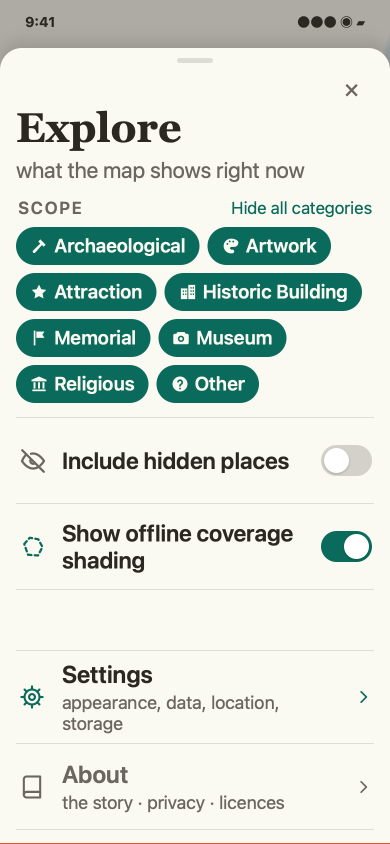
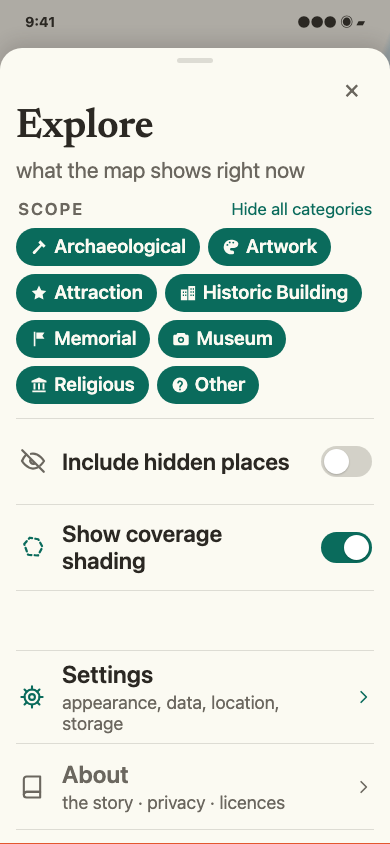
Align Explore coverage copy with frozen frame

diff --git a/ios/App/Tests/AppShellTests.swift b/ios/App/Tests/AppShellTests.swift
@@ -357,7 +357,7 @@ final class AppShellTests: XCTestCase {
         XCTAssertEqual(
             ExploreScopeControl.coverageShading.presentation,
             ExploreScopeControlPresentation(
-                title: "Show offline coverage shading",
+                title: "Show coverage shading",
                 icon: .coverageShading,
                 accessibilityIdentifier: "map.layers.coverage-shading"
             )

diff --git a/ios/App/Sources/Map/MapDoorShell.swift b/ios/App/Sources/Map/MapDoorShell.swift
@@ -74,7 +74,7 @@ enum ExploreScopeControl: CaseIterable {
             )
         case .coverageShading:
             ExploreScopeControlPresentation(
-                title: "Show offline coverage shading",
+                title: "Show coverage shading",
                 icon: .coverageShading,
                 accessibilityIdentifier: "map.layers.coverage-shading"
             )

diff --git a/docs/design/design-system/a1-journal-explore-doors.html b/docs/design/design-system/a1-journal-explore-doors.html
@@ -535,7 +535,7 @@
     </div>
     <div class="scope-row">
       <svg class="scope-icon" viewBox="0 0 24 24" aria-hidden="true"><use href="#icon-coverage"/></svg>
-      <span>Show offline coverage shading</span>
+      <span>Show coverage shading</span>
       <span class="switch on"></span>
     </div>
   </div>
